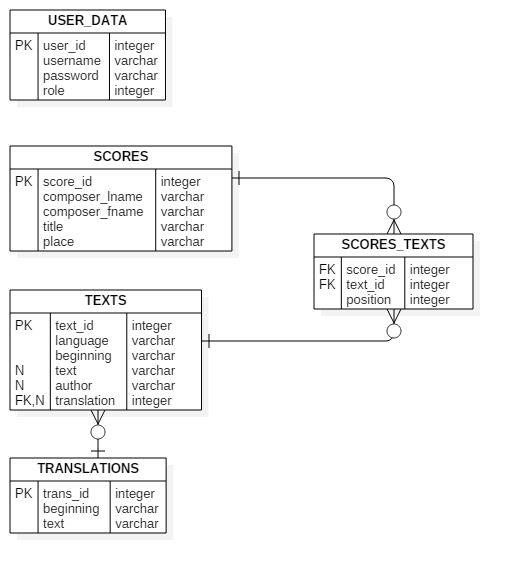
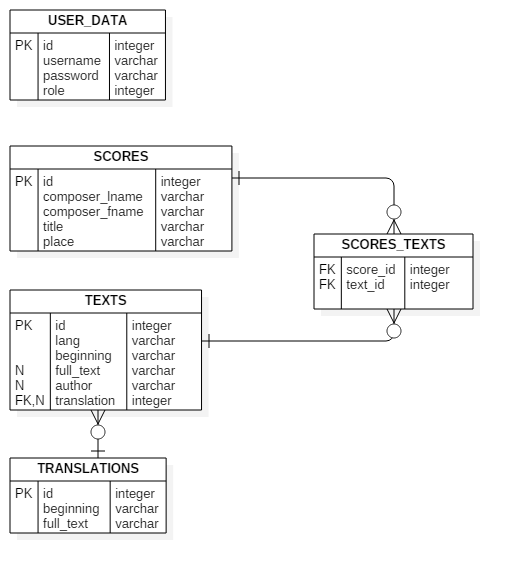
doksi

diff --git a/README.md b/README.md
@@ -20,5 +20,35 @@ Nem funkcionális követelmények:
 Szerepkörök:
 - User: megtekintheti az adatokat és kereshet bennük
 - Könyvtáros: ezen kívül új adatokat  vihet fel, módosíthat, törölhet
-- Admin: hozzáadhat/törölhet felhasználókat, módosíthatja a szerepköröket
+- Admin: módosíthatja a felhasználók szerepkörét
+
+Tervezés
+
+Végpontok
+
+- GET /score: összes kotta listázása
+- GET /score/{id}: kotta keresése azonosító szerint
+- GET /score/name/{name}: kották keresése a zeneszerző vezetékneve szerint
+- GET /score/title/{title}: kották keresése cím szerint
+- POST /score: új kotta felvétele
+- PUT /score/{id}: adott azonosítójú kotta módosítása
+- DELETE /score/{id}: adott azonosítójú kotta törlése
+
+- GET /text: összes szöveg listázása
+- GET /text/{id}: szöveg keresése azonosító szerint
+- GET /text/beginning/{beginning}: szövegek keresése szövegkezdet szerint
+- GET /text/lang/{lang}: szövegek keresése nyelv szerint
+- POST /text: új szöveg felvétele
+- PUT /text/{id}: adott azonosítójú szöveg módosítása
+- DELETE /text/{id}: adott azonosítójú szöveg törlése
+
+- GET /translation: összes fordítás listázása
+- GET /translation/{id}: fordítás keresése azonosító szerint
+- GET /translation/beginning/{beginning}: fordítások keresése szövegkezdet szerint
+- POST /translation: új fordítás felvétele
+- PUT /translation/{id}: adott azonosítójú fordítás módosítása
+- DELETE /translation/{id}: adott azonosítójú fordítás törlése
+
+Adatbázis terv
+![ER diagram](/url "images/database.png")
 
